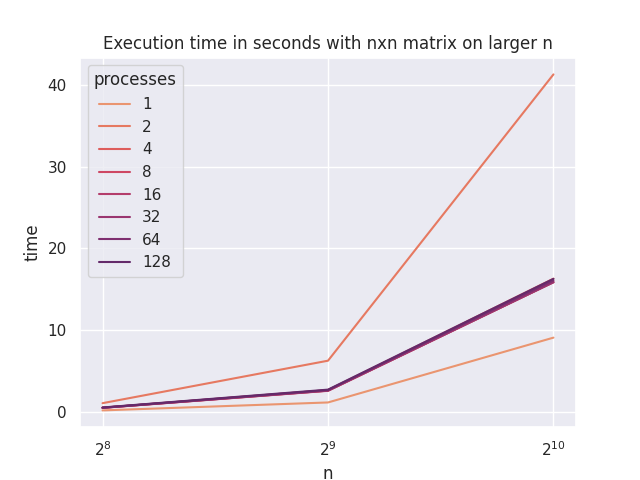
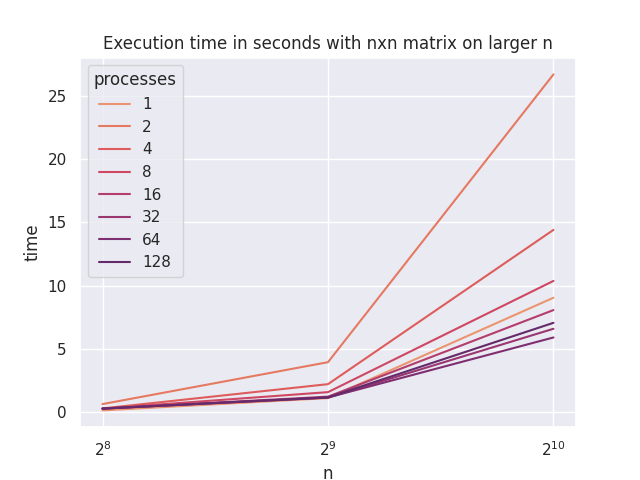
added working group

diff --git a/mpi/src/tria_det.c b/mpi/src/tria_det.c
@@ -52,6 +52,9 @@ det(double **matrix, size_t len)
 double
 mpi__det(double **matrix, size_t len, size_t threads, int rank)
 {
+    MPI_Group world_group;
+    MPI_Comm_group(MPI_COMM_WORLD, &world_group);
+
     double det = 1.0, res = 1.0;
 
     double *diag_row;
@@ -71,7 +74,29 @@ mpi__det(double **matrix, size_t len, size_t threads, int rank)
         }
 
         int slave_threads = threads - 1;
-        MPI_Bcast(diag_row, len, MPI_DOUBLE, 0, MPI_COMM_WORLD);  // point of synchronization
+        int rows_to_process = len - (diag_idx + 1);
+        int working_threads = ((slave_threads > rows_to_process)? rows_to_process : slave_threads) + 1;
+        int *working_ranks = malloc(sizeof(int) * working_threads);
+
+        for (int worker_idx = 0; worker_idx < working_threads; ++worker_idx) {
+            working_ranks[worker_idx] = worker_idx;
+        }
+
+        // working group consists of slaves (less or equal then rows_to_process) and master
+        MPI_Group working_group;
+        MPI_Group_incl(world_group, working_threads, working_ranks, &working_group);
+
+        MPI_Comm working_comm;
+        MPI_Comm_create_group(MPI_COMM_WORLD, working_group, 0, &working_comm);
+
+        // if process is not included in working_group it should skip rows computation
+        if (MPI_COMM_NULL != working_comm) {
+            MPI_Comm_rank(working_comm, &rank);
+        } else {
+            continue;
+        }
+
+        MPI_Bcast(diag_row, len, MPI_DOUBLE, 0, working_comm);  // point of synchronization
 
         if (!rank) {
             // send data to slave processes
@@ -81,21 +106,21 @@ mpi__det(double **matrix, size_t len, size_t threads, int rank)
                 dest = (row_idx - 1) % slave_threads + 1;
                 curr_tag = (row_idx - diag_idx - 1) / slave_threads;
 
-                MPI_Isend(matrix[row_idx], len, MPI_DOUBLE, dest, curr_tag, MPI_COMM_WORLD, &request);
+                MPI_Isend(matrix[row_idx], len, MPI_DOUBLE, dest, curr_tag, working_comm, &request);
                 MPI_Request_free(&request);
             }
 
             // make recv requests from processes
-            int total_requests = len - (diag_idx + 1), next_diag = diag_idx + 1;
+            int total_requests = rows_to_process, next_diag = diag_idx + 1;
             for (int row_idx = diag_idx + 1; row_idx < len; ++row_idx) {
                 dest = (row_idx - 1) % slave_threads + 1;
                 curr_tag = (row_idx - diag_idx - 1) / slave_threads;
 
                 if (row_idx == next_diag) {
                     // need only next diag row to continue computation
-                    MPI_Recv(matrix[row_idx], len, MPI_DOUBLE, dest, curr_tag, MPI_COMM_WORLD, MPI_STATUS_IGNORE);
+                    MPI_Recv(matrix[row_idx], len, MPI_DOUBLE, dest, curr_tag, working_comm, MPI_STATUS_IGNORE);
                 } else {
-                    MPI_Irecv(matrix[row_idx], len, MPI_DOUBLE, dest, curr_tag, MPI_COMM_WORLD, &request);
+                    MPI_Irecv(matrix[row_idx], len, MPI_DOUBLE, dest, curr_tag, working_comm, &request);
                     MPI_Request_free(&request);
                 }
             }
@@ -109,7 +134,7 @@ mpi__det(double **matrix, size_t len, size_t threads, int rank)
             MPI_Request request;
             while (assigned_row < len) {
                 // receive data from master process
-                MPI_Recv(compute_row, len, MPI_DOUBLE, MASTER_RANK, curr_tag, MPI_COMM_WORLD, MPI_STATUS_IGNORE);
+                MPI_Recv(compute_row, len, MPI_DOUBLE, MASTER_RANK, curr_tag, working_comm, MPI_STATUS_IGNORE);
 
                 // reset (assigned_row, col_idx) element to zero
                 double elem = compute_row[col_idx];
@@ -118,13 +143,16 @@ mpi__det(double **matrix, size_t len, size_t threads, int rank)
                 add_row_from_idx(compute_row, diag_row, len, col_idx);
 
                 // send modified data back to master
-                MPI_Isend(compute_row, len, MPI_DOUBLE, MASTER_RANK, curr_tag, MPI_COMM_WORLD, &request);
+                MPI_Isend(compute_row, len, MPI_DOUBLE, MASTER_RANK, curr_tag, working_comm, &request);
                 MPI_Request_free(&request);
 
                 assigned_row += slave_threads;
                 curr_tag += 1;
             }
         }
+
+        MPI_Group_free(&working_group);
+        MPI_Comm_free(&working_comm);
     }
 
     if (rank) {
@@ -132,8 +160,9 @@ mpi__det(double **matrix, size_t len, size_t threads, int rank)
         free(compute_row);
     }
 
-    MPI_Barrier(MPI_COMM_WORLD);
     MPI_Reduce(&det, &res, 1, MPI_DOUBLE, MPI_PROD, MASTER_RANK, MPI_COMM_WORLD);
+
+    MPI_Group_free(&world_group);
 
     return res;
 }
@@ -203,9 +232,8 @@ main(int argc, char **argv)
 
             double d;
             if (threads < 2) {
-                if (!rank) {
-                    d = det(matrix, n[i]);
-                }
+                // cannot use master-slave parallelization with one process :)
+                d = det(matrix, n[i]);
             } else {
                 d = mpi__det(matrix, n[i], threads, rank);
             }
